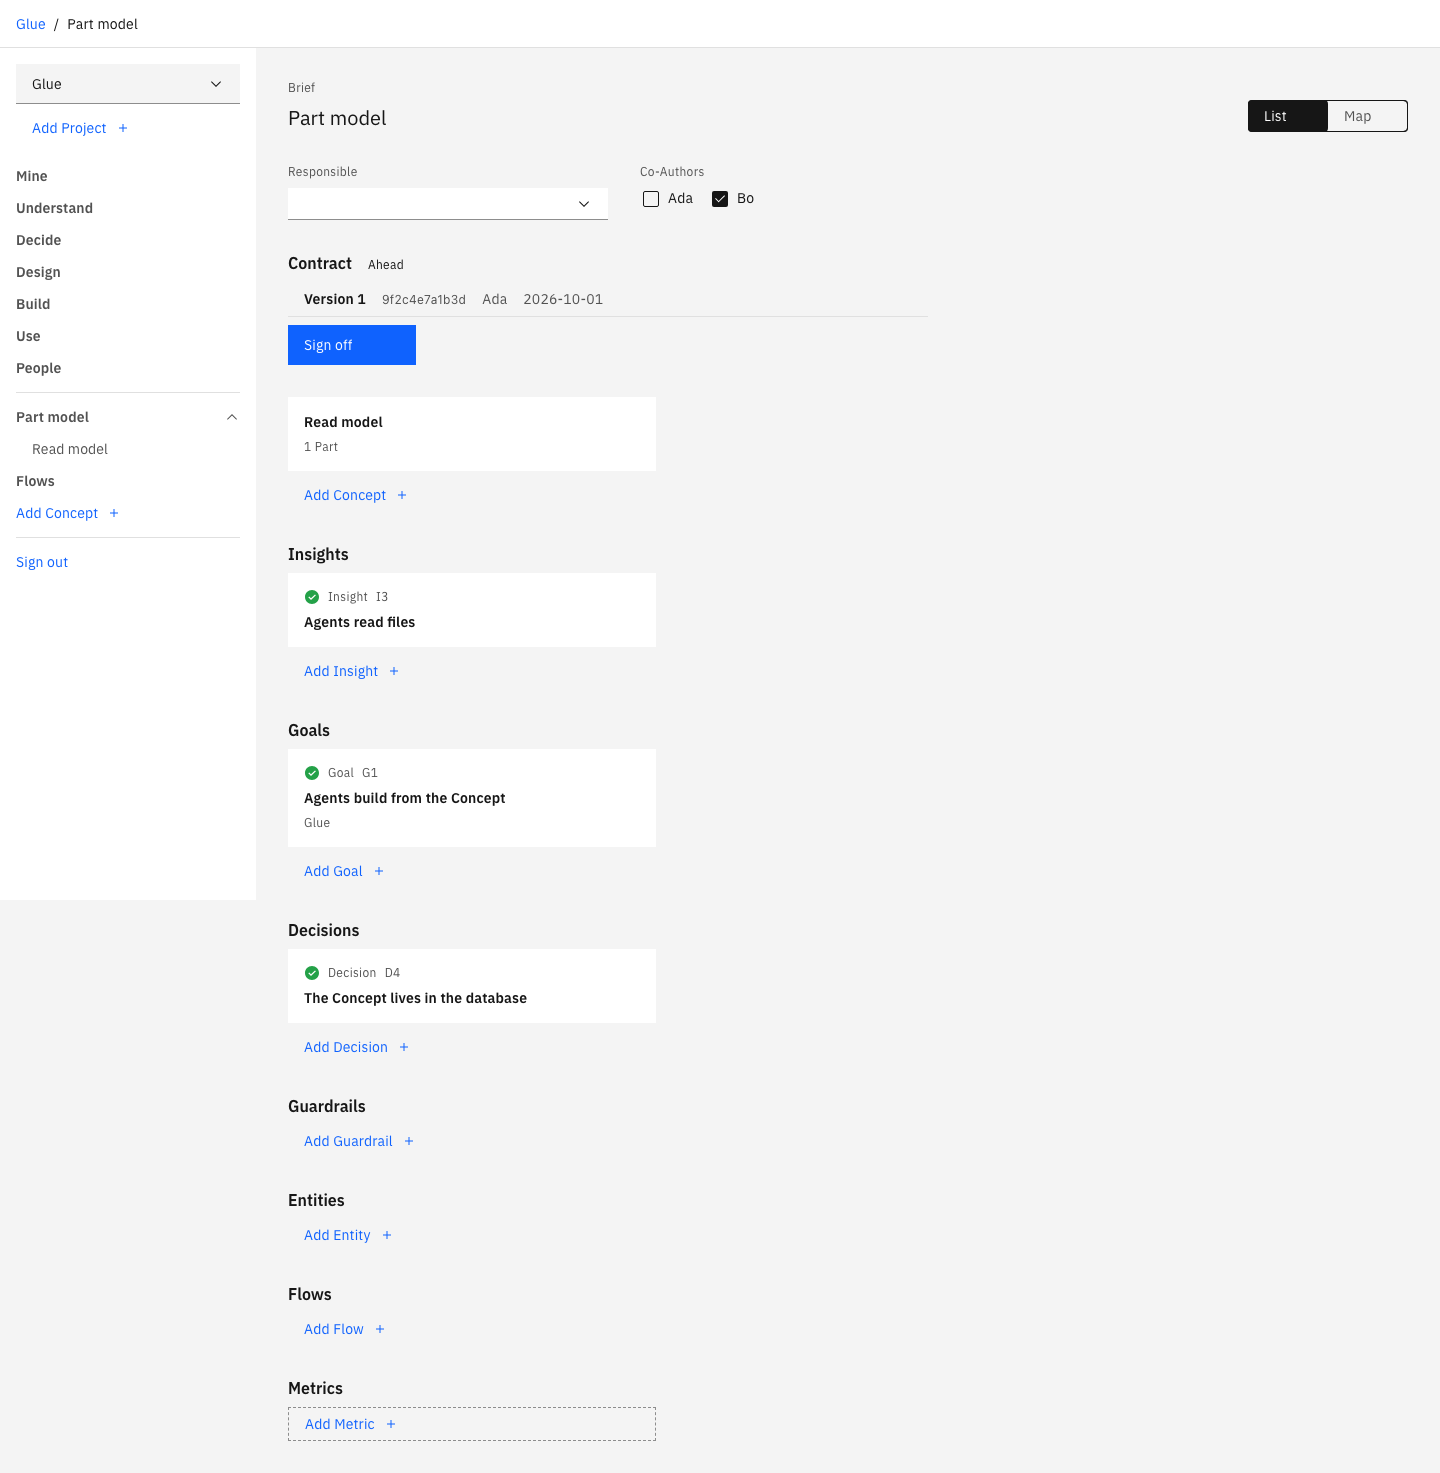
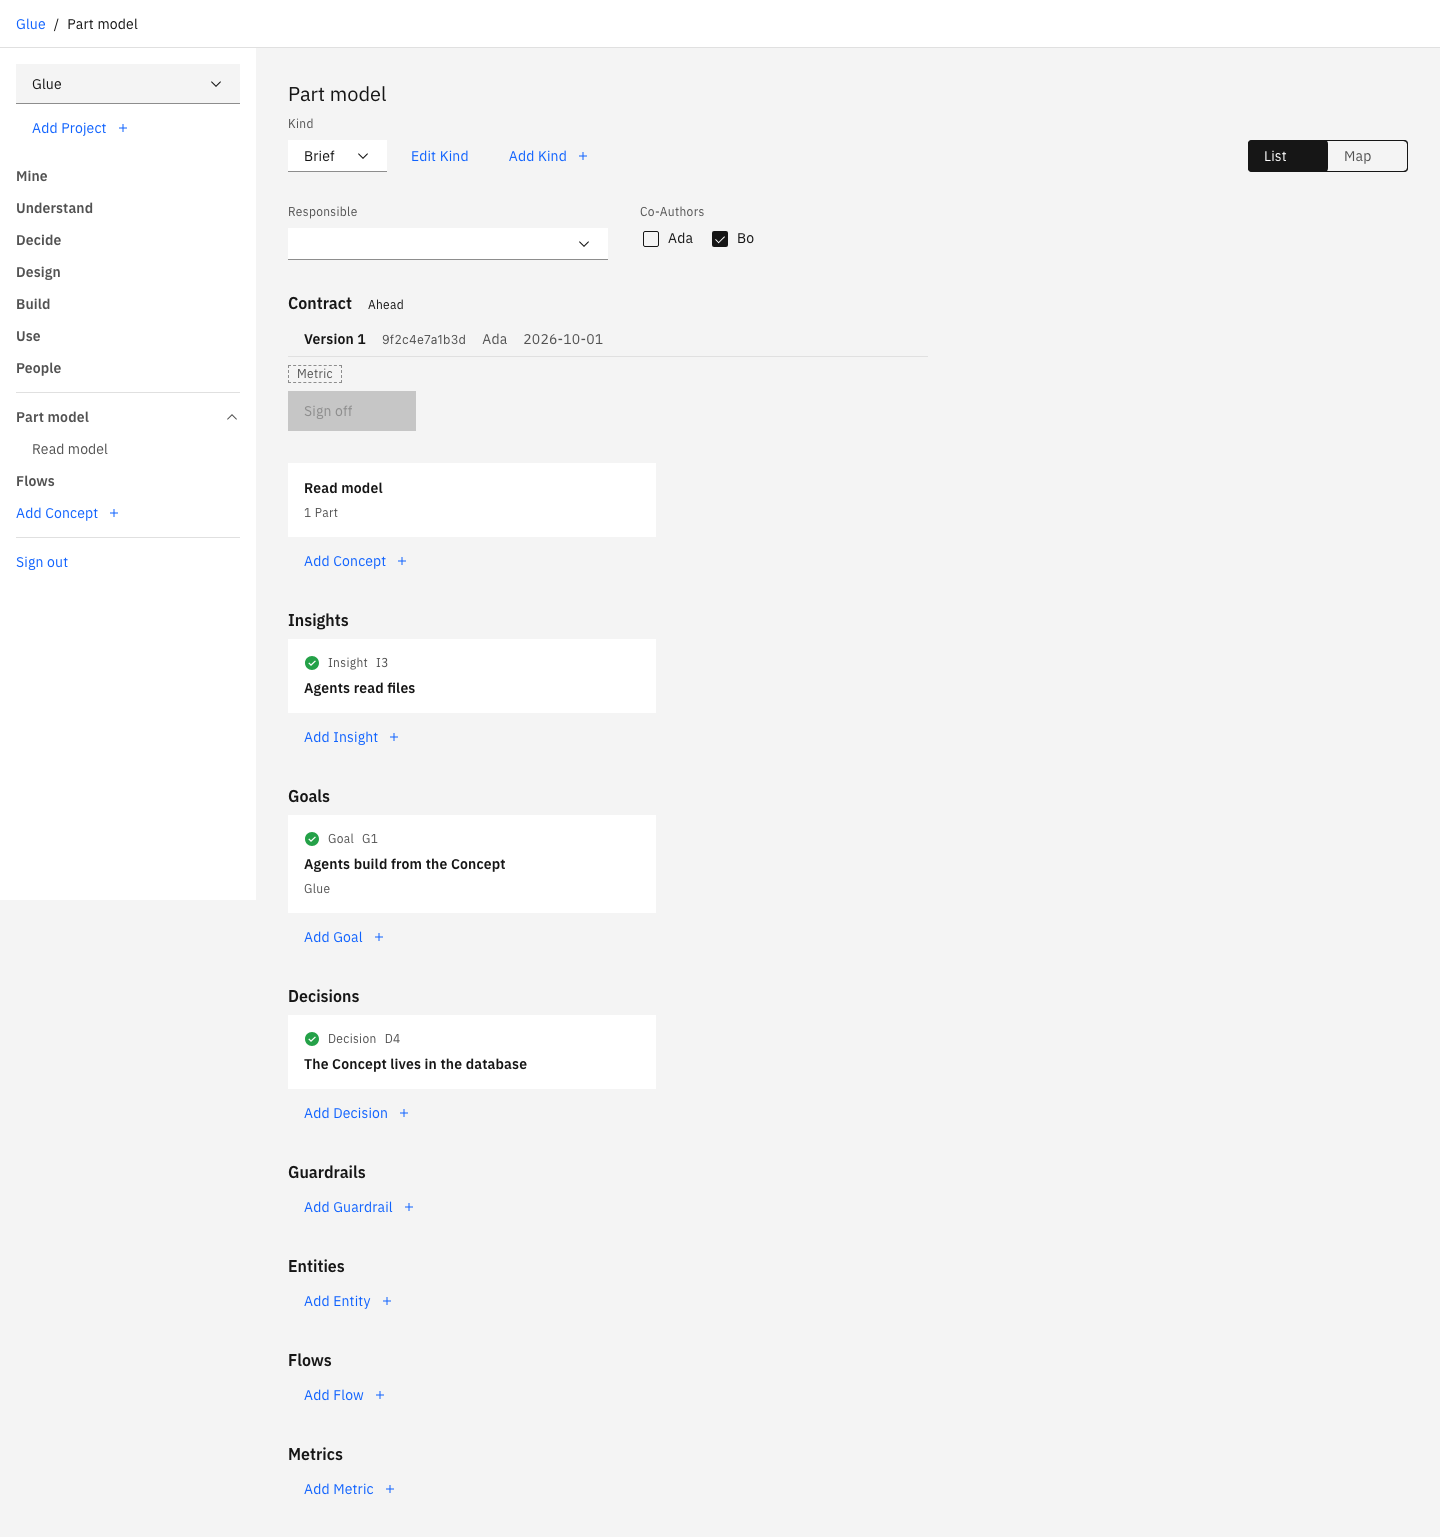
fix(flow): take the empty slots of a Concept from its Contract state
The flow of a Concept asks for the Part of the first slot that its Kind
requires and that is empty. This is the list that blocks a sign-off on the
server. A slot that the Kind does not require blocks no sign-off.

The Contract keeps the chips of the empty slots. The sign-off stays in the
box Next.

Refs #335
Decision: glue/D58

diff --git a/src/project/common-flow.test.ts b/src/project/common-flow.test.ts
@@ -599,7 +599,6 @@ describe('the next step of a Part in every state', () => {
 })
 
 describe('the common flow of a Concept', () => {
-  const filled = { slots: [{ type: 'goal', required: true, filled: true }] } as const
   const version = {
     version: 2,
     checksum: 'a81d03c5e7f9',
@@ -616,48 +615,32 @@ describe('the common flow of a Concept', () => {
   const named = { ...build, contract }
 
   it('asks for the Part of the first empty slot that the Kind requires', () => {
-    const brief = {
-      slots: [
-        { type: 'goal', required: true, filled: true },
-        { type: 'insight', required: false, filled: false },
-        { type: 'metric', required: true, filled: false },
-        { type: 'flow', required: true, filled: false },
+    const brief: ContractState = {
+      ...signed,
+      emptySlots: [
+        { type: 'metric', count: 0, minCount: 1 },
+        { type: 'flow', count: 1, minCount: 2 },
       ],
-    } as const
+    }
 
-    expect(findConceptFlow(brief, signed, [{ ...named, gate: holds }])).toEqual(
-      {
-        name: 'Concept to build',
-        steps: ['Fill slots', 'Sign', 'Build', 'Gate'],
-        current: 0,
-        next: { kind: 'add', type: 'metric', label: 'Add Metric' },
-      },
-    )
+    expect(findConceptFlow(brief, [{ ...named, gate: holds }])).toEqual({
+      name: 'Concept to build',
+      steps: ['Fill slots', 'Sign', 'Build', 'Gate'],
+      current: 0,
+      next: { kind: 'add', type: 'metric', label: 'Add Metric' },
+    })
   })
 
   it('asks for the sign-off of a Concept with no empty slot and no Contract Version', () => {
-    expect(findConceptFlow(filled, unsigned)).toMatchObject({
+    expect(findConceptFlow(unsigned)).toMatchObject({
       current: 1,
       next: { kind: 'sign', label: 'Sign off' },
     })
-    expect(findConceptFlow({ slots: [] }, unsigned)).toMatchObject({
-      current: 1,
-      next: { kind: 'sign', label: 'Sign off' },
-    })
-    // An empty slot that the Kind does not require does not block.
-    expect(
-      findConceptFlow(
-        { slots: [{ type: 'insight', required: false, filled: false }] },
-        unsigned,
-      ),
-    ).toMatchObject({ current: 1, next: { kind: 'sign', label: 'Sign off' } })
   })
 
   it('asks for the sign-off of a Concept that is ahead of its Contract', () => {
     expect(
-      findConceptFlow(filled, { ...signed, ahead: true }, [
-        { ...named, gate: holds },
-      ]),
+      findConceptFlow({ ...signed, ahead: true }, [{ ...named, gate: holds }]),
     ).toMatchObject({ current: 1, next: { kind: 'sign', label: 'Sign off' } })
   })
 
@@ -667,7 +650,7 @@ describe('the common flow of a Concept', () => {
       { ...summary, id: 'F6', trust: 'not-ready' } as const,
     ]
 
-    expect(findConceptFlow(filled, { ...unsigned, blocking })).toMatchObject({
+    expect(findConceptFlow({ ...unsigned, blocking })).toMatchObject({
       current: 1,
       next: {
         kind: 'open',
@@ -681,11 +664,9 @@ describe('the common flow of a Concept', () => {
     const next = { kind: 'version', version: 2, label: 'Open Version 2' }
     const old = { ...contract, version: 1 }
 
-    expect(findConceptFlow(filled, signed)).toMatchObject({ current: 2, next })
+    expect(findConceptFlow(signed)).toMatchObject({ current: 2, next })
     expect(
-      findConceptFlow(filled, signed, [
-        { ...build, contract: old, gate: holds },
-      ]),
+      findConceptFlow(signed, [{ ...build, contract: old, gate: holds }]),
     ).toMatchObject({ current: 2, next })
   })
 
@@ -696,12 +677,12 @@ describe('the common flow of a Concept', () => {
       label: 'Open build 12',
     }
 
-    expect(findConceptFlow(filled, signed, [named])).toMatchObject({
+    expect(findConceptFlow(signed, [named])).toMatchObject({
       current: 3,
       next,
     })
     expect(
-      findConceptFlow(filled, signed, [
+      findConceptFlow(signed, [
         { ...named, gate: breaks },
         { ...named, number: 11, gate: holds },
       ]),
@@ -709,7 +690,7 @@ describe('the common flow of a Concept', () => {
   })
 
   it('has no step left when the gate of the build holds', () => {
-    const flow = findConceptFlow(filled, signed, [{ ...named, gate: holds }])
+    const flow = findConceptFlow(signed, [{ ...named, gate: holds }])
 
     expect(flow.current).toBe(4)
     expect(flow.next).toBeUndefined()

diff --git a/src/contract-render.test.tsx b/src/contract-render.test.tsx
@@ -11,7 +11,7 @@ import { describe, expect, it, vi } from 'vitest'
 import { createRouterContext } from './router-context.ts'
 import type { Server } from './router-server.ts'
 import { routeTree } from './routeTree.gen'
-import { builds, findConcept, parts } from './test/project.ts'
+import { builds, parts } from './test/project.ts'
 import './test/render.tsx'
 import { createMemoryServer } from './test/server.ts'
 
@@ -45,22 +45,8 @@ function currentStep() {
     .find((step) => step.getAttribute('aria-current') === 'step')?.title
 }
 
-// The Concepts of Glue with each slot filled.
-const filled: Partial<Server> = {
-  fetchConcept: vi.fn((input) => {
-    const concept = findConcept(input)
-    return Promise.resolve(
-      concept && {
-        ...concept,
-        slots: concept.slots.map((slot) => ({ ...slot, filled: true })),
-      },
-    )
-  }),
-}
-
 // The Part model with its Contract Version 1 and nothing after it.
 const signed: Partial<Server> = {
-  ...filled,
   fetchContractState: vi.fn(() =>
     Promise.resolve({
       versions: [
@@ -80,7 +66,16 @@ const signed: Partial<Server> = {
 
 describe('the common flow of a Concept', () => {
   it('shows the step bar above the box Next, and opens the form of the empty slot', async () => {
-    const { router } = await renderPage('/glue/part-model')
+    const { router } = await renderPage('/glue/part-model', {
+      fetchContractState: vi.fn(() =>
+        Promise.resolve({
+          versions: [],
+          ahead: false,
+          blocking: [],
+          emptySlots: [{ type: 'metric' as const, count: 0, minCount: 1 }],
+        }),
+      ),
+    })
 
     expect(currentStep()).toBe('Fill slots')
     expect(
@@ -95,7 +90,7 @@ describe('the common flow of a Concept', () => {
   })
 
   it('signs off the Concept with each slot filled, then reads the Contract again', async () => {
-    const { server } = await renderPage('/glue/part-model', filled)
+    const { server } = await renderPage('/glue/part-model')
 
     expect(currentStep()).toBe('Sign')
 
@@ -112,7 +107,6 @@ describe('the common flow of a Concept', () => {
 
   it('says that it signs off while the sign-off saves', async () => {
     await renderPage('/glue/part-model', {
-      ...filled,
       signContract: vi.fn(() => new Promise<{ version: number }>(() => {})),
     })
 
@@ -124,7 +118,6 @@ describe('the common flow of a Concept', () => {
 
   it('shows why the sign-off failed', async () => {
     await renderPage('/glue/part-model', {
-      ...filled,
       signContract: vi.fn(() =>
         Promise.resolve({ message: 'sign-off needs Trust solid: D4' }),
       ),

diff --git a/src/project/common-flow.ts b/src/project/common-flow.ts
@@ -1,13 +1,7 @@
 import type { AskStep } from '../db/asks.ts'
 import type { Build } from '../db/builds.ts'
 import type { ContractState } from '../db/contracts.ts'
-import type {
-  Answer,
-  Concept,
-  Part,
-  PartSummary,
-  PartType,
-} from '../db/parts.ts'
+import type { Answer, Part, PartSummary, PartType } from '../db/parts.ts'
 
 // The common flows of docs/concept.md, section 7: which one a Part or a
 // Concept is in, the step it is at, and the one next step.
@@ -195,24 +189,17 @@ function findBuildFlow(builds: ReadonlyArray<GatedBuild>): CommonFlow {
   return { ...flows.build, current, next: openBuild(newest) }
 }
 
-// A slot that the Kind requires and that is not filled: it blocks the
-// sign-off.
-export function isEmptySlot({ required, filled }: Concept['slots'][number]) {
-  return required && !filled
-}
-
-// The common flow of a Concept (glue/D58): it fills the slots of its Kind,
-// its owner signs it off as a Contract Version, a build names that Version,
-// and the gate of the build holds. `builds` are the builds that name a
+// The common flow of a Concept (glue/D58): it fills the slots that its Kind
+// requires, its owner signs it off as a Contract Version, a build names that
+// Version, and the gate of the build holds. `builds` are the builds that name a
 // Contract Version of the Concept. A Concept that is ahead of its Contract
 // is at the sign-off again. A Part without Trust solid blocks the sign-off:
 // the step opens the first one.
 export function findConceptFlow(
-  concept: { slots: ReadonlyArray<Concept['slots'][number]> },
   contract: ContractState,
   builds: ReadonlyArray<GatedBuild> = [],
 ): CommonFlow {
-  const empty = concept.slots.find(isEmptySlot)
+  const empty = contract.emptySlots.at(0)
   if (empty) return { ...flows.concept, current: 0, next: addPart(empty.type) }
 
   const newest = contract.versions.at(0)

diff --git a/src/project/concept-screen.tsx b/src/project/concept-screen.tsx
@@ -20,7 +20,7 @@ import { flagReasons } from '../design-system/record.tsx'
 import { SectionView } from '../design-system/section-view.tsx'
 import { Signals } from '../design-system/signals.tsx'
 import { AssigneesControl } from './assignees-control.tsx'
-import { findConceptFlow, isEmptySlot } from './common-flow.ts'
+import { findConceptFlow } from './common-flow.ts'
 import type { NextStep } from './common-flow.ts'
 import { ContractSection, useVersionHref } from './contract-screen.tsx'
 import { KindFormScreen } from './kind-form-screen.tsx'
@@ -354,8 +354,8 @@ export function ConceptScreen({
   // lens shows a part of the Concept, so no flow.
   const flow =
     search.section === undefined &&
-    (hasContract || concept.slots.some(isEmptySlot))
-      ? findConceptFlow(concept, contract, builds?.builds)
+    (hasContract || contract.emptySlots.length > 0)
+      ? findConceptFlow(contract, builds?.builds)
       : undefined
   // The next step opens the form of the empty slot, signs the Concept off,
   // or opens the Part that blocks, the Contract Version or the build.

diff --git a/src/router-render.test.tsx b/src/router-render.test.tsx
@@ -2952,7 +2952,7 @@ describe('the Kinds of a Project', () => {
     await expectAddress('/glue/part-model', { add: 'kind' })
   })
 
-  it('names the empty required slots of the Concept at a sign-off that is not available', async () => {
+  it('names the empty required slots of the Concept, and asks for the Part of the first one', async () => {
     await renderPage('/glue/part-model', {
       fetchContractState: vi.fn(() =>
         Promise.resolve({
@@ -2970,9 +2970,9 @@ describe('the Kinds of a Project', () => {
         .getAllByRole('listitem')
         .map((chip) => chip.textContent),
     ).toEqual(['Metric'])
-    expect(contract.getByRole('button', { name: 'Sign off' })).toHaveProperty(
-      'disabled',
-      true,
-    )
+    expect(screen.queryByRole('button', { name: 'Sign off' })).toBeNull()
+    within(screen.getByRole('region', { name: 'Next' })).getByRole('button', {
+      name: 'Add Metric',
+    })
   })
 })

diff --git a/src/routeTree.gen.ts b/src/routeTree.gen.ts
@@ -963,3 +963,12 @@ const rootRouteChildren: RootRouteChildren = {
 export const routeTree = rootRouteImport
   ._addFileChildren(rootRouteChildren)
   ._addFileTypes<FileRouteTypes>()
+
+import type { getRouter } from './router.tsx'
+import type { createStart } from '@tanstack/react-start'
+declare module '@tanstack/react-start' {
+  interface Register {
+    ssr: true
+    router: Awaited<ReturnType<typeof getRouter>>
+  }
+}
